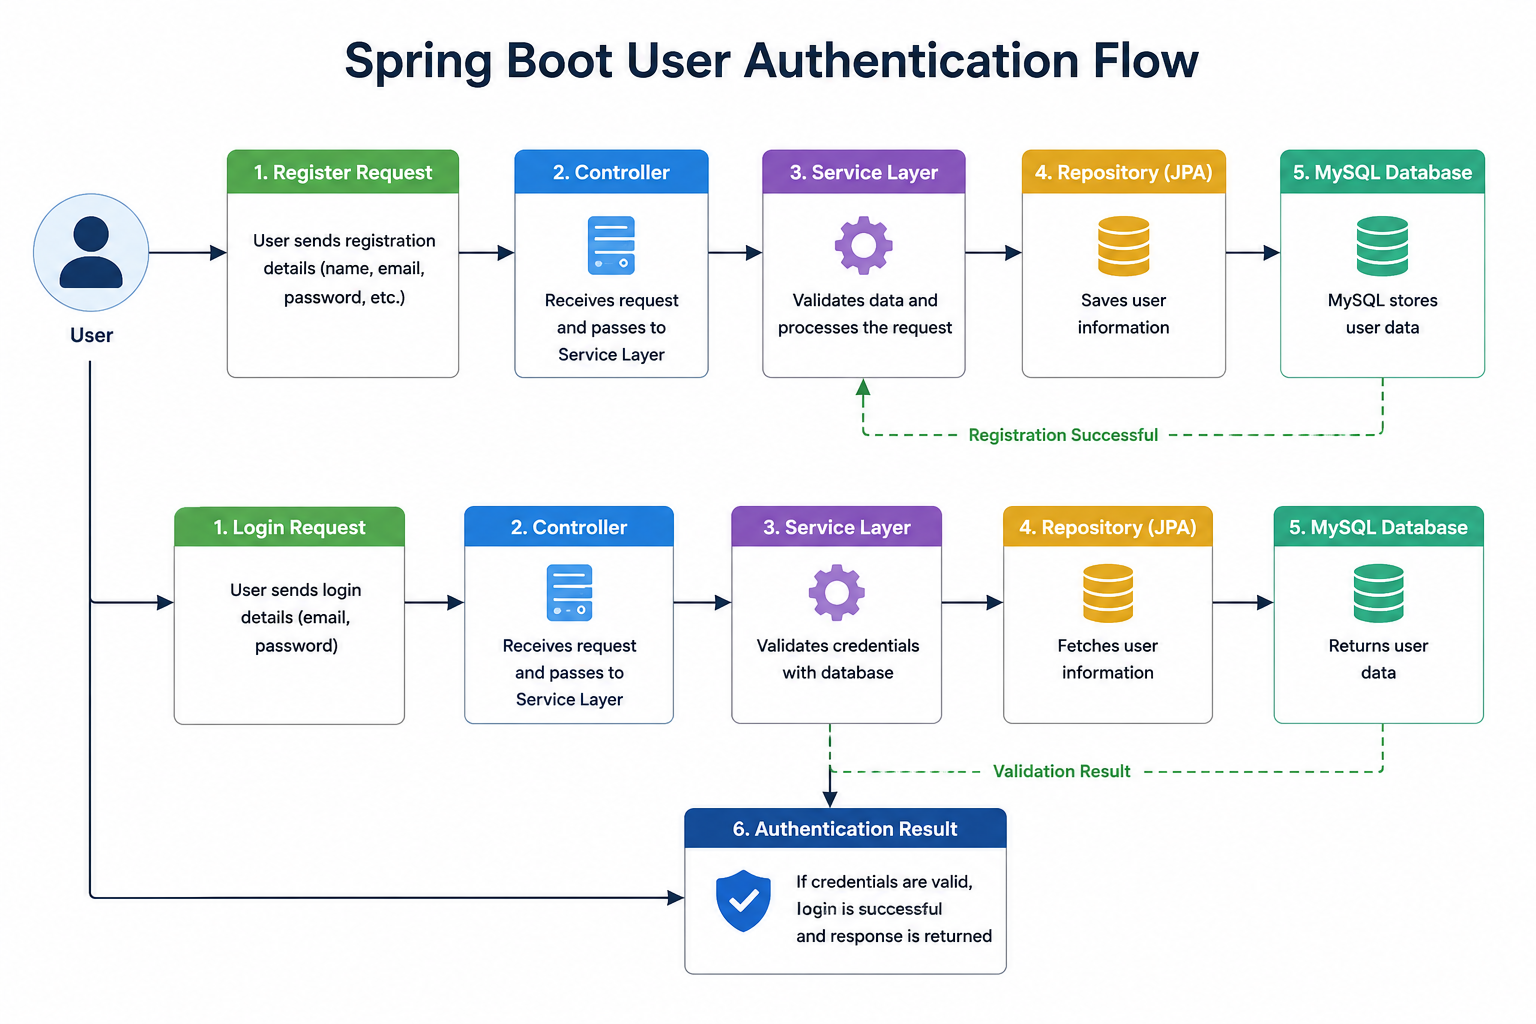
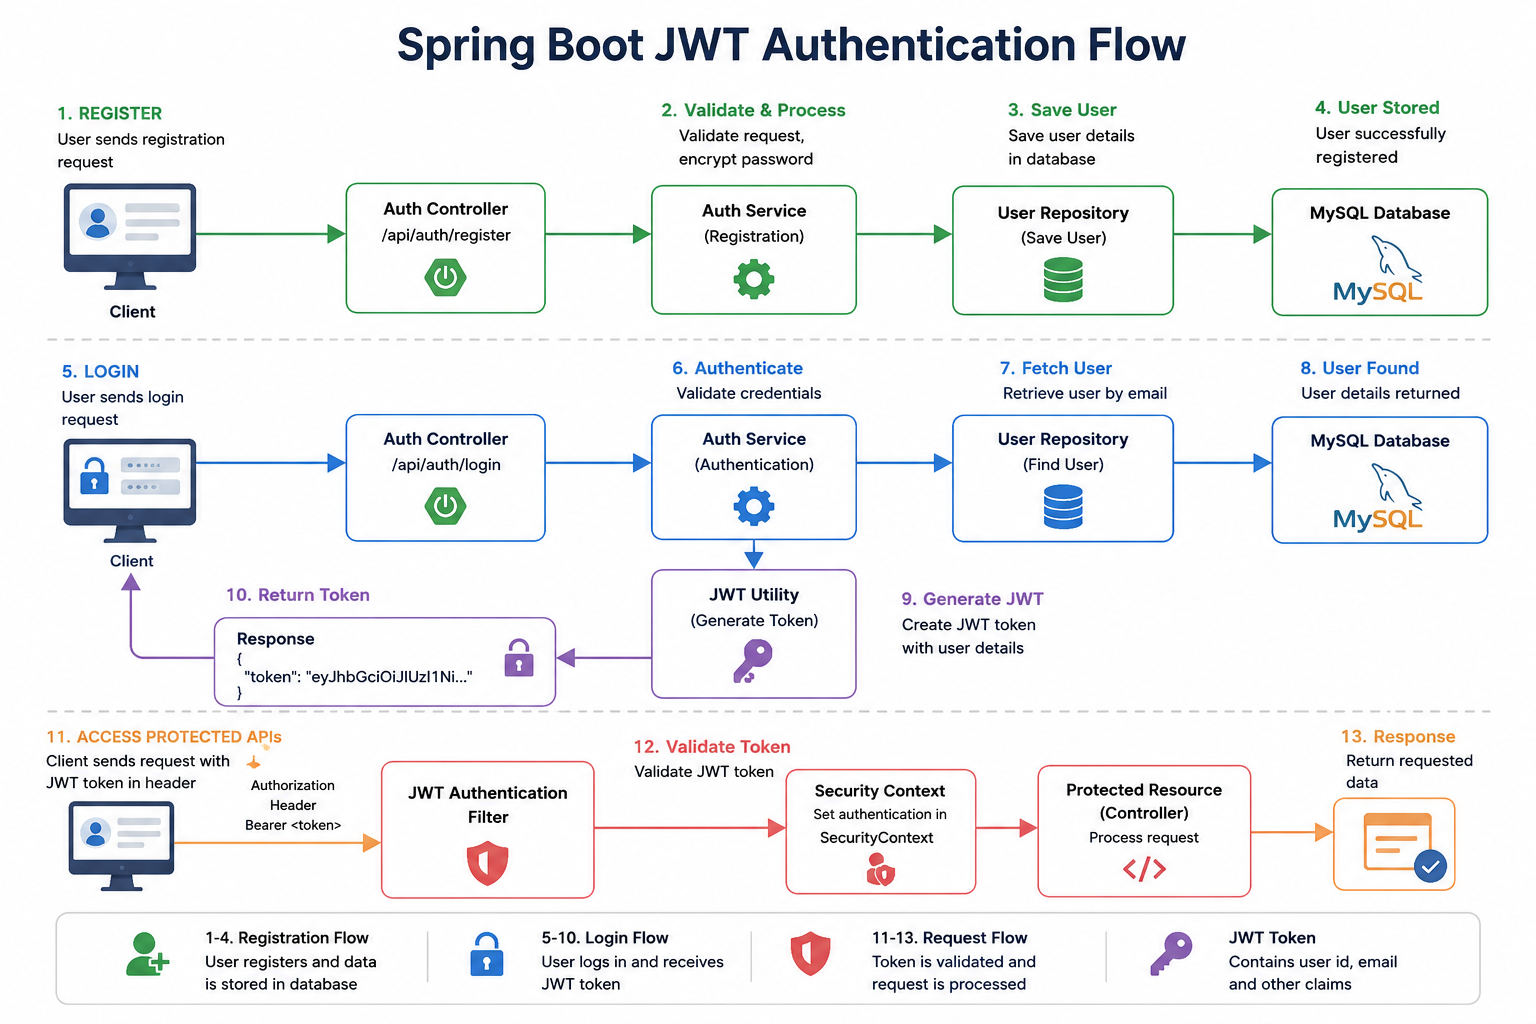
updated README.md with updated flow

diff --git a/readme.md b/readme.md
@@ -1,24 +1,30 @@
 # 🔐 Spring Boot: User Authentication
 
-A Spring Boot REST API application that demonstrates **User Registration** and **User Login** using Spring Boot. The project follows a clean layered architecture with DTOs, request validation, exception handling, and MySQL database integration to build a simple authentication system.
+A Spring Boot REST API Application that demonstrates complete **User Authentication** using **JWT (JSON Web Token)** and **Spring Security**. The application follows clean architecture principles with DTOs, request validation, global exception handling, password encryption using BCrypt, and MySQL integration.
+
+This project serves as a solid foundation for building secure authentication systems in enterprise Spring Boot applications.
 
 ---
 
-## ⚙ What This Covers
+## ✨ Features
 
-✔ User Registration
+✔ User Registration, Login, Update Profile & Delete Profile
 
-✔ User Login
+✔ JWT Token Generation,  Authentication & Authorization
+
+✔ BCrypt Password Encryption
 
 ✔ Request Validation
 
 ✔ Global Exception Handling
 
+✔ Spring Security Integration
+
+✔ Stateless Authentication
+
+✔ Global Exception Handling
+
 ✔ DTO-Based Request & Response
-
-✔ MySQL Database Integration
-
-✔ RESTful API Development
 
 ---
 
@@ -26,34 +32,43 @@ A Spring Boot REST API application that demonstrates **User Registration** and *
 
 | Category | Technologies |
 |----------|--------------|
-| **Backend** | Java 17, Spring Boot, Spring Security |
-| **Database** | MySQL, Spring Data JPA |
+| **Backend** | Java 17, Spring Boot 3, Spring Security |
+| **Authentication** | JWT (JSON Web Token), BCrypt Password Encoder |
+| **Database** | MySQL, Spring Data JPA, Hibernate |
 | **Validation** | Jakarta Bean Validation |
-| **API Testing** | Postman |
 | **Build Tool** | Maven |
+| **API Testing** | Postman |
+| **IDE** | IntelliJ IDEA |
+
+---
+
+## 🔐 Authentication Flow
+
+<p align="center">
+  <img src="authentication_flow.png" alt="Spring Boot JWT Authentication Flow" width="85%">
+</p>
 
 ---
 
 ## 📡 REST API Endpoints
 
-| Method | Endpoint | Description |
-| ------ | -------- | ----------- |
-| POST | `/register` | Register a new user |
-| POST | `/login` | Login with registered credentials |
+| Method | Endpoint | Authentication | Description |
+|---------|----------|---------------|-------------|
+| POST | `/api/auth/register` | ❌ | Register a new user |
+| POST | `/api/auth/login` | ❌ | Login and receive JWT token |
+| GET | `/api/auth/profile` | ✅ Bearer Token | Get logged-in user profile |
+| PUT | `/api/auth/update/{id}` | ✅ Bearer Token | Update user details |
+| DELETE | `/api/auth/delete/{id}` | ✅ Bearer Token | Delete user account |
 
 ---
 
-## 🚀 Authentication Flow
+## 👨💻 Author
 
-<p align="center">
-  <img src="authentication_flow.png" alt="Spring Boot User Authentication Flow" width="75%">
-</p>
+**Pavan Sonawane**
 
----
+GitHub: https://github.com/pavan0209
 
-## 🎯 Conclusion
-
-👉 *This repository demonstrates the fundamentals of implementing user registration and login in Spring Boot. It showcases a clean REST API structure with validation, exception handling, and MySQL integration, providing a solid foundation for building more advanced authentication systems such as JWT or OAuth in the future.*
+LinkedIn: https://www.linkedin.com/in/pavansonawane0209
 
 ---
 
